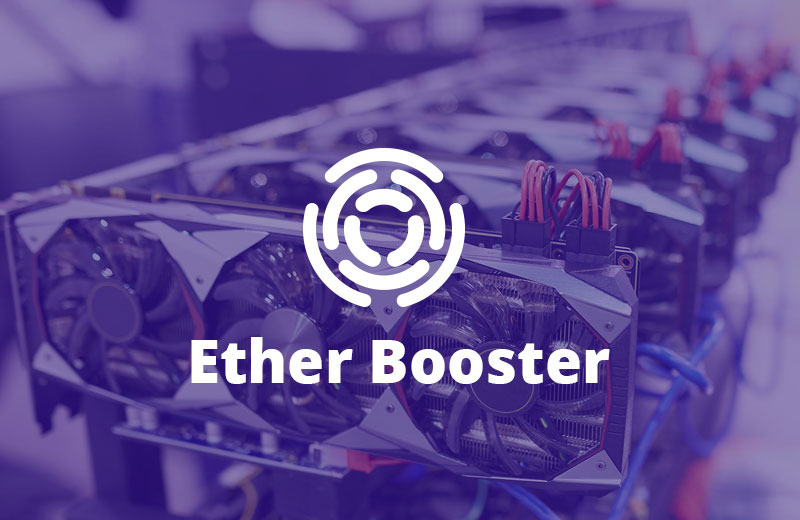
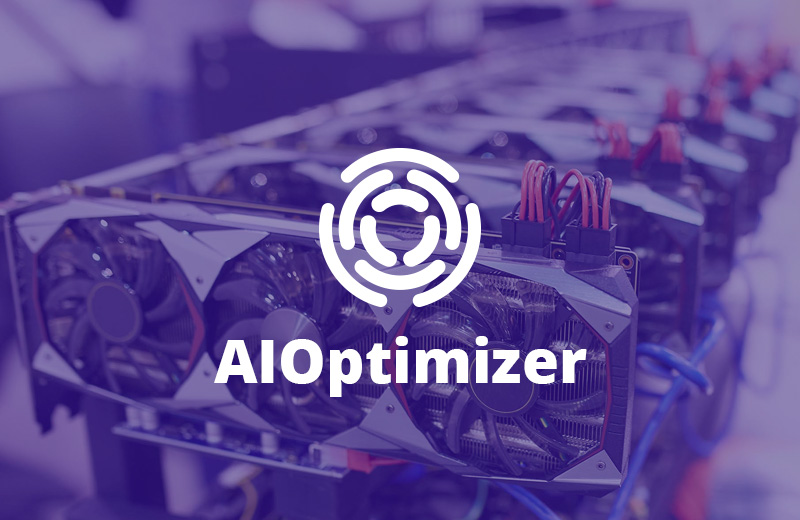
new text responsive fix

Changed region(s): [[0.375, 0.2769, 0.625, 0.6154], [0.2188, 0.6462, 0.7812, 0.7692]]

diff --git a/index.html b/index.html
@@ -59,7 +59,7 @@
                 <div class="header-content-box">
                     <h1>Make your GPUs work smart, not hard</h1>
                     <p>
-                        Get better profits from your GPUs without increasing the load or power consumption.
+                        Generate more profit with your GPUs without increasing the load or power consumption.
                     </p>
                     <a href="https://www.miningoptimizer.net" class="btn btn-lg btn-success">Try mining optimizer</a>
                 </div>
@@ -70,7 +70,7 @@
 
 <section class="section section-about" id="about">
     <div class="container">
-        <div class="row">
+        <div class="row align-items-center">
             <div class="col-lg-7 hidden-md">
                 <div class="gpu-box">
                     <img src="int/img/gpu.png" class="gpu-img" alt="">
@@ -85,25 +85,12 @@
                     </div>
                     <div class="content-box-body">
                         <p>
-                            GPUnity is a Seattle-based company building software solutions for GPU-based tasks like mining, video-rendering and machine learning
+                            GPUnity is a Seattle-based company building software solutions for GPU-based tasks like mining, video-rendering and machine learning.
                         </p>
                         <img src="int/img/line1.png" alt="" class="bline">
                     </div>
                 </div>
 
-                <div class="content-box">
-                    <div class="content-box-header">
-                        <span class="content-sub-header">
-                            What we do
-                        </span>
-                    </div>
-                    <div class="content-box-body">
-                        <p>
-                              GPUnity Mining Optimizer was designed to increase mining returns in a 30-50% range by autonomously switching GPU miners to mine the most profitable digital asset based on the current pricing and difficulty data.
-For AMD we provide a specialized solution, which increases the cards profitability by 10-25 %.
-                        </p>
-                    </div>
-                </div>
             </div>
         </div>
     </div>
@@ -123,7 +110,7 @@ For AMD we provide a specialized solution, which increases the cards profitabili
                     <div class="white-box-content">
                         <span class="white-box-title">Mining Optimizer</span>
                         <p class="white-box-body">
-                            MiningOptimizer helps your mining operation. Generate more profit and automate your mining business now.
+                            GPUnity MiningOptimizer was designed to increase mining returns in a 30-50% range by autonomously switching GPU miners to mine the most profitable digital asset based on the current pricing and difficulty data.
                         </p>
                     </div>
                 </div>
@@ -132,9 +119,9 @@ For AMD we provide a specialized solution, which increases the cards profitabili
                 <div class="white-box">
                     <div class="white-box-img" style="background-image: url('int/img/products/2.jpg')"></div>
                     <div class="white-box-content">
-                        <span class="white-box-title">Ether Booster</span>
+                        <span class="white-box-title">AIOptimizer</span>
                         <p class="white-box-body">
-                            Ether Booster allows you to make 15%-25% higher profits on your AMD cards compared to mining straight ETH. Currently in beta.
+                            GPUnity AIOptimizer was designed to optimize the deployment of AI/HPC tasks across a decentralized GPU network with a focus on efficiency and accessibility of AI and HPC workflow.
                         </p>
                     </div>
                 </div>
@@ -145,7 +132,7 @@ For AMD we provide a specialized solution, which increases the cards profitabili
                     <div class="white-box-content">
                         <span class="white-box-title">Video Rendering</span>
                         <p class="white-box-body">
-                            Lorem Ipsum is simply dummy text of the printing and typesetting industry. Lorem Ipsum has been the industry's standard dummy text ever since the 1500s
+                            We are equipped to distribute video rendering tasks to our decentralized GPU network
                         </p>
                     </div>
                 </div>
@@ -225,7 +212,7 @@ Find out about the faces behind GPUnity and meet our eclectic team of tech profe
             </div>
         </div>
         <div class="row row-team justify-content-center">
-            <div class="col-md-3">
+            <div class="col col-lg-3 col-md-12">
                 <div class="white-box team-box text-center" data-toggle="modal" data-target="#person1">
                     <div class="white-box-img" style="background-image: url('int/img/team/4_2.jpg')"></div>
                     <div class="white-box-content-sm">
@@ -234,7 +221,7 @@ Find out about the faces behind GPUnity and meet our eclectic team of tech profe
                     </div>
                 </div>
             </div>
-            <div class="col-md-3">
+            <div class="col-lg-3 col-12">
                 <div class="white-box team-box text-center" data-toggle="modal" data-target="#person2">
                     <div class="white-box-img" style="background-image: url('int/img/team/3.jpg')"></div>
                     <div class="white-box-content-sm">
@@ -243,7 +230,7 @@ Find out about the faces behind GPUnity and meet our eclectic team of tech profe
                     </div>
                 </div>
             </div>
-            <div class="col-md-3">
+            <div class="col-lg-3 col-12">
                 <div class="white-box team-box text-center" data-toggle="modal" data-target="#person3">
                     <div class="white-box-img" style="background-image: url('int/img/team/2.jpg')"></div>
                     <div class="white-box-content-sm">
@@ -252,7 +239,7 @@ Find out about the faces behind GPUnity and meet our eclectic team of tech profe
                     </div>
                 </div>
             </div>
-            <div class="col-md-3">
+            <div class="col-lg-3 col-12">
                 <div class="white-box team-box text-center" data-toggle="modal" data-target="#person4">
                     <div class="white-box-img" style="background-image: url('int/img/team/1.jpg')"></div>
                     <div class="white-box-content-sm">
@@ -261,7 +248,7 @@ Find out about the faces behind GPUnity and meet our eclectic team of tech profe
                     </div>
                 </div>
             </div>
-            <div class="col-md-3">
+            <div class="col-lg-3 col-12">
                 <div class="white-box team-box text-center" data-toggle="modal" data-target="#person5">
                     <div class="white-box-img" style="background-image: url('int/img/team/5_2.jpg')"></div>
                     <div class="white-box-content-sm">
@@ -581,7 +568,26 @@ Find out about the faces behind GPUnity and meet our eclectic team of tech profe
                     <h3>Bernhard K&uuml;hbeck</h3>
                     <span class="sub-bio-text">VP of Business Development</span>
                     <p>
-                        Bernhard is the latest addition to GPUnity and is the business developer, product manager and expert in all things usability. He lives in Salzburg, Austria so for the rare occasion he won’t answer his phone he is probably off in the mountains looking for fresh powder runs to ski.
+                        Bernhard is the business developer, product manager and expert in all things usability at GPUnity. He was also born with an unusual combination of a deep curiosity and passion for tech as well as people.
+                    </p>
+                    <p>
+                        Bernhard’s entrepreneurial spirit and passion for AI surfaced at the tender age of 24, while still majoring in computer science at the University of Passau, Germany, when he and two fellow students received the EXIST founders stipend from the German government, for tinkering with intelligent motion sensor detectors to be used as safety measures in avalanche accidents.
+                    </p>
+                    <p>
+                        Despite finding himself at the front of a government backed startup and simultaneously finishing his Masters degree in computer science, he still continued to live out his passion for AI in a Machine Learning project, <a href="https://www.sciencedirect.com/science/article/pii/S0020025510002392" target="_blank">which he co-published with his professor</a>.
+                    </p>
+                    <p>
+                        It’s during this time he realized, he also had a talent for sparking team energy, interpersonal problem-solving and connecting people, skills which make him an outstanding leader and well appreciated colleague.
+                    </p>
+                    <p>
+                        After several years in start-up mode, he took it up with the big ones and joined Brückner Maschinenbau, and later W&H Dentalwerk, German and Austrian hidden machinery champions.  At both companies he lead international and remote programming teams, managed million dollar budgets and frequently traveled to various parts of the planet such as Latin Amerika, Middle East and China, for product launchings and software deployments.
+                    </p>
+                    <p>
+                        Bernhard used the time in the corporate world to hone his skills in leadership, project and product management, UX, intercultural communication and became a Scrum and agile software development guru.
+                    </p>
+                    <p>
+                        Bernhard lives in Salzburg, Austria, which might or might not have something to do with the skiable mountains there.
+
                     </p>
                 </div>
             </div>
@@ -601,6 +607,7 @@ Find out about the faces behind GPUnity and meet our eclectic team of tech profe
                     <h3>Mark Francis</h3>
                     <span class="sub-bio-text">CFO</span>
                     <p>
+                        Master of the Finances, Mark Francis is a partner in the San Francisco Bay Area accounting firm Lapidos Leung & Francis, Inc. and has been practicing accounting ever since he graduated from Pennsylvania State, which amounts to a track record of over 20 years.  His practice is diverse but includes a focus on CFO work for tech companies. Mark has made a name for himself in Silicon Valley having overseen companies from formation to mergers and acquisition.  Presently, he serves as CFO for several businesses.  Apart from working his magic as the finance guy, he is also an avid runner, plays in a rock band, loves to cook and is a doting father to his two wonderful daughters. We haven’t yet figured out how he does it all with a smile on his face and time to spare, but we suspect he either got bitten by a radio active spider or he has a twin and they pretend to be one person.
                     </p>
                 </div>
             </div>

diff --git a/int/css/common.css b/int/css/common.css
@@ -347,7 +347,7 @@
     position: absolute;
     left: 0;
     top: 0;
-    heighte: 300px; }
+    height: 300px; }
 
 .modal.modal-bio .modal-dialog {
   max-width: 800px; }
@@ -506,7 +506,26 @@ h1 {
     margin-right: -15px; }
     .row-30 > div {
       padding-left: 15px;
-      padding-right: 15px; } }
+      padding-right: 15px; }
+
+  .section {
+    padding: 40px 0; }
+
+  .section-footer {
+    margin-top: 0; }
+
+  .header-section {
+    padding-top: 80px; }
+
+  .content-box-body .bline {
+    margin-bottom: 0; }
+
+  .avatat-box-link {
+    margin-top: 0;
+    margin-bottom: 0; }
+
+  .white-box-content-sm {
+    padding: 30px 5px; } }
 @media (max-width: 768px) {
   .logo {
     margin-left: 15px; }

diff --git a/int/css/responsive.sass b/int/css/responsive.sass
@@ -82,6 +82,25 @@
             padding-left: 15px
             padding-right: 15px
 
+    .section
+        padding: 40px 0
+
+    .section-footer
+        margin-top: 0
+
+    .header-section
+        padding-top: 80px
+
+    .content-box-body .bline
+        margin-bottom: 0
+
+    .avatat-box-link
+        margin-top: 0
+        margin-bottom: 0
+
+    .white-box-content-sm
+        padding: 30px 5px
+
 
 @media (max-width: 768px)
     .logo

diff --git a/int/css/main.sass b/int/css/main.sass
@@ -357,6 +357,7 @@
         top: 0
         height: 300px
 
+
 .modal.modal-bio
     .modal-dialog
         max-width: 800px
